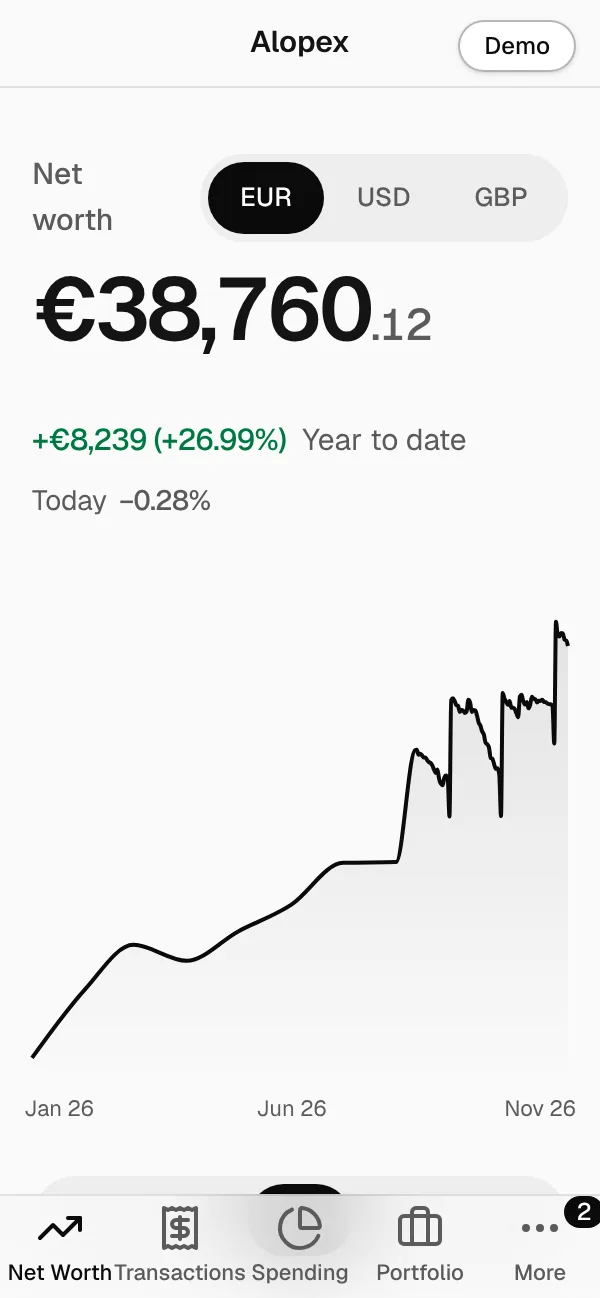
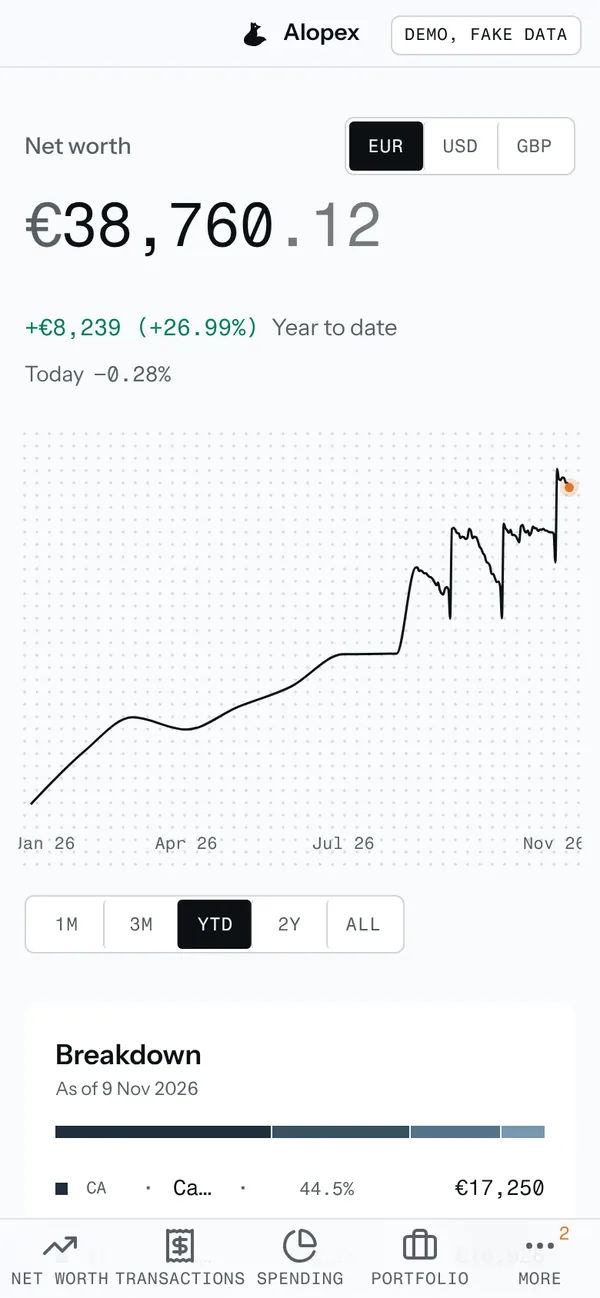
feat(site): landing v3 after open-core landings review
Hero names the category and the incumbent ("open-source Monarch alternative
for European banks"), proof strip under the CTAs, "Where your data goes"
four-hop diagram replaces the privacy cards, "Switching from Monarch, Finary
or a spreadsheet" replaces the OSS comparison table (peers move to the FAQ),
founder note before the final band. Screenshots regenerated from the Arctic
Ledger dashboard; stale head-mask overlays removed from the fox SVGs.

Claude-Session: https://claude.ai/code/session_015ob4vseKrSYbt3XPdrmNM3

diff --git a/site/index.html b/site/index.html
@@ -3,8 +3,8 @@
 <head>
 <meta charset="utf-8">
 <meta name="viewport" content="width=device-width, initial-scale=1">
-<title>Alopex: Self-Hosted Net Worth Tracker for European Banks</title>
-<meta name="description" content="Open source Finary alternative: a self-hosted net worth tracker with PSD2 sync for 2000+ European banks, stocks and crypto. MIT, data in your own Supabase.">
+<title>Alopex: Open-Source Monarch Alternative for European Banks</title>
+<meta name="description" content="The open-source Monarch alternative for European banks: net worth from 2000+ EU banks, stocks and crypto, synced read-only into your own Supabase. MIT.">
 <!-- SITE_URL: https://alopex.finance, also in robots.txt, sitemap.xml, llms.txt -->
 <link rel="canonical" href="https://alopex.finance/">
 <meta name="theme-color" content="#ffffff" media="(prefers-color-scheme: light)">
@@ -14,7 +14,7 @@
 <meta property="og:type" content="website">
 <meta property="og:locale" content="en_GB">
 <meta property="og:site_name" content="Alopex">
-<meta property="og:title" content="Alopex: a self-hosted net worth tracker for European banks">
+<meta property="og:title" content="Alopex: the open-source Monarch alternative for European banks">
 <meta property="og:description" content="Bank accounts, investments and crypto in one dashboard, synced read-only from 2000+ European banks into a database you own. MIT licensed.">
 <meta property="og:url" content="https://alopex.finance/">
 <meta property="og:image" content="https://alopex.finance/og-image.png">
@@ -22,7 +22,7 @@
 <meta property="og:image:height" content="630">
 <meta property="og:image:alt" content="Alopex: net worth, spending, subscriptions and portfolio from your own bank accounts, in your own Supabase project">
 <meta name="twitter:card" content="summary_large_image">
-<meta name="twitter:title" content="Alopex: a self-hosted net worth tracker for European banks">
+<meta name="twitter:title" content="Alopex: the open-source Monarch alternative for European banks">
 <meta name="twitter:description" content="Bank accounts, investments and crypto in one dashboard, synced read-only from 2000+ European banks into a database you own. MIT licensed.">
 <meta name="twitter:image" content="https://alopex.finance/og-image.png">
 <link rel="preconnect" href="https://fonts.googleapis.com">
@@ -56,8 +56,8 @@
     {
       "@type": "FAQPage",
       "mainEntity": [
-        {"@type": "Question", "name": "Is there an open-source alternative to Finary?", "acceptedAnswer": {"@type": "Answer", "text": "Yes. Alopex is MIT-licensed and self-hosted: European bank accounts, stocks, ETFs and crypto in one dashboard."}},
-        {"@type": "Question", "name": "How is Alopex different from Firefly III or Actual Budget?", "acceptedAnswer": {"@type": "Answer", "text": "They budget; Alopex tracks net worth and prices investments and crypto, which they do not."}},
+        {"@type": "Question", "name": "Is there an open-source alternative to Monarch Money or Finary?", "acceptedAnswer": {"@type": "Answer", "text": "Yes. Alopex is MIT-licensed and self-hosted: European bank accounts, stocks, ETFs and crypto in one dashboard, with the data in your own Supabase project."}},
+        {"@type": "Question", "name": "How is Alopex different from Firefly III, Actual Budget or Ghostfolio?", "acceptedAnswer": {"@type": "Answer", "text": "Firefly III and Actual budget; Ghostfolio tracks investments. Alopex does net worth across bank accounts, investments and crypto, with EU bank sync built in."}},
         {"@type": "Question", "name": "Is Alopex free?", "acceptedAnswer": {"@type": "Answer", "text": "Yes, MIT. The default setup runs on free tiers of GitHub, Supabase, Vercel and Enable Banking, whose limits can change."}},
         {"@type": "Question", "name": "Which banks does Alopex support, and how long does access last?", "acceptedAnswer": {"@type": "Answer", "text": "Any of the 2000+ on Enable Banking, including Revolut, Wise and Fineco. Consent lasts 180 days; you get a reminder before it ends and renew without losing history."}},
         {"@type": "Question", "name": "Do I need a server to run Alopex?", "acceptedAnswer": {"@type": "Answer", "text": "No. Sync runs on GitHub Actions and the dashboard on Vercel. Docker is an option for a home server."}},
@@ -184,13 +184,44 @@ code{font:.9em ui-monospace,SFMono-Regular,Menlo,monospace;background:var(--soft
 @media (max-width:760px){header nav a:not(.btn):not(.stars){display:none}}
 @media (max-width:480px){.ctas .btn{flex:1 1 100%}}
 @media (prefers-color-scheme:dark){.frame{box-shadow:0 0 0 1px #262626,0 24px 60px -24px rgba(0,0,0,.8)}.frame img{filter:brightness(.94)}.frame .bar i{background:#333}}
+
+.proof{display:flex;flex-wrap:wrap;justify-content:center;align-items:center;gap:10px 28px;margin:28px 0 0;padding:0;list-style:none;font-size:14px;color:var(--muted)}
+.proof li{display:flex;align-items:center;gap:8px}
+.proof li+li::before{content:"";width:5px;height:5px;border-radius:50%;background:var(--ink);opacity:.4}
+.proof img{display:block;height:20px;width:auto}
+.proof strong{color:var(--ink);font-weight:600;font-variant-numeric:tabular-nums}
+.install{display:inline-flex;align-items:center;gap:10px;margin:18px auto 0;font-size:13px;color:var(--muted)}
+.install code{font-size:13px;padding:4px 10px}
+.flow{display:grid;grid-template-columns:repeat(4,1fr);gap:0;border:1px solid var(--line);border-radius:12px;overflow:hidden;background:var(--line);gap:1px}
+.flow>div{background:var(--bg);padding:var(--s3);position:relative}
+.flow>div+div::before{content:"\2192";position:absolute;left:-9px;top:var(--s3);width:18px;height:18px;border-radius:50%;background:var(--bg);border:1px solid var(--line);font-size:11px;line-height:16px;text-align:center;color:var(--muted);z-index:1}
+.flow .who{font-size:12px;letter-spacing:.06em;text-transform:uppercase;color:var(--muted);margin:0 0 10px}
+.flow h3{font-size:1.05rem;letter-spacing:-.015em;font-weight:600;margin:0 0 6px}
+.flow p{color:var(--muted);margin:0;font-size:.92rem}
+.flow .yours{background:var(--soft)}
+.flow .yours .who{color:var(--ink)}
+@media (max-width:760px){.flow{grid-template-columns:1fr 1fr}}
+@media (max-width:480px){.flow{grid-template-columns:1fr}}
+.switch{display:grid;grid-template-columns:repeat(3,1fr);gap:1px;background:var(--line);border:1px solid var(--line);border-radius:12px;overflow:hidden}
+.switch>div{background:var(--bg);padding:var(--s3) var(--s3) 28px}
+.switch h3{font-size:1.05rem;letter-spacing:-.015em;font-weight:600;margin:0 0 10px}
+.switch p{color:var(--muted);margin:0 0 8px;font-size:.95rem}
+.switch p.vs{color:var(--ink)}
+.switch p.vs::before{content:"Alopex";display:inline-block;font-size:11px;letter-spacing:.06em;text-transform:uppercase;color:var(--muted);margin-right:8px}
+@media (max-width:760px){.switch{grid-template-columns:1fr}}
+.founder{max-width:var(--copy)}
+.founder blockquote{margin:0;padding:0 0 0 var(--s3);border-left:2px solid var(--ink);font-size:1.15rem;line-height:1.55;color:var(--ink);text-wrap:pretty}
+.founder blockquote p{margin:0 0 14px}
+.founder .sig{display:flex;align-items:center;gap:10px;font-size:14px;color:var(--muted);margin-top:var(--s3)}
+.founder .sig img{width:28px;height:28px;border-radius:50%}
+.founder .sig strong{color:var(--ink);font-weight:600}
 </style>
 </head>
 <body>
 <header><div class="wrap">
-  <a class="brand" href="/" aria-label="Alopex home"><svg viewBox="0 0 64 64" aria-hidden="true"><path fill="currentColor" fill-rule="evenodd" d="M23.0 8.3 C22.7 9.0 22.1 9.9 22.0 11.6 C21.9 13.3 22.7 16.2 22.5 18.6 C22.3 21.1 22.6 23.2 20.6 26.3 C18.6 29.4 12.7 34.6 10.7 37.2 C8.7 39.9 8.8 40.4 8.4 42.2 C8.0 44.0 8.0 46.3 8.3 47.8 C8.6 49.3 8.7 50.1 10.2 51.4 C11.7 52.7 14.1 54.5 17.2 55.5 C20.2 56.5 25.6 57.4 28.5 57.6 C31.4 57.8 32.7 57.4 34.9 56.8 C37.1 56.1 39.0 55.4 41.5 53.7 C44.0 52.0 47.8 48.0 50.0 46.7 C52.2 45.4 53.9 46.0 54.8 45.7 C55.6 45.4 55.6 45.6 55.1 44.8 C54.6 43.9 52.9 41.7 51.7 40.6 C50.5 39.5 49.2 38.9 47.7 38.4 C46.2 37.9 44.8 37.5 42.7 37.4 C40.6 37.3 34.9 37.9 34.9 37.9 C34.9 37.9 36.0 34.3 36.1 32.0 C36.2 29.7 34.5 26.2 35.5 23.9 C36.5 21.6 40.9 19.7 42.2 18.4 C43.5 17.1 43.2 16.1 43.2 16.1 C43.2 16.1 38.8 15.2 37.3 14.6 C35.8 13.9 35.1 13.3 34.2 12.2 C33.3 11.1 31.7 8.1 31.7 8.1 C31.7 8.1 30.1 10.3 28.8 10.2 C27.5 10.1 23.6 7.5 23.6 7.5 C23.6 7.5 23.3 7.6 23.0 8.3ZM30.4 16.8a1.6 1.6 0 1 0 3.2 0a1.6 1.6 0 1 0-3.2 0Z"/><path fill="var(--bg)" d="M14 34Q22 33 27 40L32 47L37 40Q42 33 50 34L36 50Q32 54 28 50Z"/><circle cx="23" cy="29" r="2.5" fill="var(--bg)"/><circle cx="41" cy="29" r="2.5" fill="var(--bg)"/><path fill="currentColor" d="M29 46H35L32 50Z"/></svg> Alopex</a>
+  <a class="brand" href="/" aria-label="Alopex home"><svg viewBox="0 0 64 64" aria-hidden="true"><path fill="currentColor" fill-rule="evenodd" d="M23.0 8.3 C22.7 9.0 22.1 9.9 22.0 11.6 C21.9 13.3 22.7 16.2 22.5 18.6 C22.3 21.1 22.6 23.2 20.6 26.3 C18.6 29.4 12.7 34.6 10.7 37.2 C8.7 39.9 8.8 40.4 8.4 42.2 C8.0 44.0 8.0 46.3 8.3 47.8 C8.6 49.3 8.7 50.1 10.2 51.4 C11.7 52.7 14.1 54.5 17.2 55.5 C20.2 56.5 25.6 57.4 28.5 57.6 C31.4 57.8 32.7 57.4 34.9 56.8 C37.1 56.1 39.0 55.4 41.5 53.7 C44.0 52.0 47.8 48.0 50.0 46.7 C52.2 45.4 53.9 46.0 54.8 45.7 C55.6 45.4 55.6 45.6 55.1 44.8 C54.6 43.9 52.9 41.7 51.7 40.6 C50.5 39.5 49.2 38.9 47.7 38.4 C46.2 37.9 44.8 37.5 42.7 37.4 C40.6 37.3 34.9 37.9 34.9 37.9 C34.9 37.9 36.0 34.3 36.1 32.0 C36.2 29.7 34.5 26.2 35.5 23.9 C36.5 21.6 40.9 19.7 42.2 18.4 C43.5 17.1 43.2 16.1 43.2 16.1 C43.2 16.1 38.8 15.2 37.3 14.6 C35.8 13.9 35.1 13.3 34.2 12.2 C33.3 11.1 31.7 8.1 31.7 8.1 C31.7 8.1 30.1 10.3 28.8 10.2 C27.5 10.1 23.6 7.5 23.6 7.5 C23.6 7.5 23.3 7.6 23.0 8.3ZM30.4 16.8a1.6 1.6 0 1 0 3.2 0a1.6 1.6 0 1 0-3.2 0Z"/></svg> Alopex</a>
   <nav>
-    <a href="#features">Features</a><a href="#how">How it works</a><a href="#privacy">Privacy</a><a href="#faq">FAQ</a>
+    <a href="#features">Features</a><a href="#switch">Compare</a><a href="#how">How it works</a><a href="#faq">FAQ</a>
     <a class="stars" href="https://github.com/marcodonghiaa/myfinances"><span>GitHub</span><img src="https://img.shields.io/github/stars/marcodonghiaa/myfinances?style=flat&amp;label=&amp;color=0a0a0a" width="48" height="20" loading="lazy" alt="GitHub stars"></a>
     <a class="btn primary sm" href="https://myfinancess-view.vercel.app/demo">Live demo</a>
   </nav>
@@ -200,49 +231,37 @@ code{font:.9em ui-monospace,SFMono-Regular,Menlo,monospace;background:var(--soft
 <div class="wrap">
 <div class="hero">
   <p class="kicker">Open source · MIT · Self-hosted</p>
-  <h1>One number for your net worth. In a database you own.</h1>
-  <p class="sub">Read-only sync from 2000+ European banks over PSD2, stocks and crypto auto-priced, everything written to your own Supabase project. Runs on free tiers.</p>
+  <h1>The open-source Monarch alternative for European banks.</h1>
+  <p class="sub">Net worth from 2000+ EU banks, stocks and crypto, synced read-only into your own Supabase project. Free, on free tiers.</p>
   <div class="ctas">
     <a class="btn primary" href="https://myfinancess-view.vercel.app/demo">Try the live demo</a>
     <a class="btn" href="#how">Self-host in 30 minutes</a>
   </div>
-  <p class="fine">The demo runs on fake data. No sign-up.</p>
-  <ul class="facts"><li>MIT licensed</li><li>Read-only PSD2 access</li><li>No Alopex server</li></ul>
+  <p class="install">Or open the repo in Codespaces and run <code>./setup.sh</code></p>
+  <ul class="proof">
+    <li><a class="stars" href="https://github.com/marcodonghiaa/myfinances" aria-label="GitHub stars"><img src="https://img.shields.io/github/stars/marcodonghiaa/myfinances?style=flat&amp;label=&amp;color=0a0a0a" width="48" height="20" loading="lazy" alt="GitHub stars"></a></li>
+    <li><strong>2000+</strong> European banks over PSD2</li>
+    <li>Read-only access</li>
+    <li>No Alopex server</li>
+  </ul>
   <div class="stage"><figure class="frame"><div class="bar"><i></i><i></i><i></i><span>alopex.finance</span></div>
     <picture><source media="(max-width:640px)" srcset="/img/mobile.webp" width="600" height="1298"><img src="/img/net-worth.webp" width="1600" height="1000" alt="Alopex net worth dashboard: one total across bank accounts, portfolio and crypto, with a chart over time" fetchpriority="high"></picture>
   </figure></div>
 </div>
 
-<section class="quote" id="what">
-  <p class="label">What the publisher sees</p>
-  <p>Nothing. <span>There is no Alopex server. Bank data goes from Enable Banking straight into your Supabase project.</span></p>
-</section>
-
 <section id="privacy">
-  <h2>Read-only, under your own accounts</h2>
-  <p class="lead">Three third parties touch your data.</p>
-  <div class="cards">
-    <div><svg viewBox="0 0 24 24" fill="none" stroke="currentColor" stroke-width="1.6" aria-hidden="true"><ellipse cx="12" cy="5.5" rx="8" ry="3"/><path d="M4 5.5v13c0 1.7 3.6 3 8 3s8-1.3 8-3v-13M4 12c0 1.7 3.6 3 8 3s8-1.3 8-3"/></svg><h3>Row Level Security on every table</h3><p>The dashboard holds only the publishable key. The service-role key stays in the sync scripts and Edge Functions.</p></div>
-    <div><svg viewBox="0 0 24 24" fill="none" stroke="currentColor" stroke-width="1.6" aria-hidden="true"><rect x="4" y="10" width="16" height="11" rx="2"/><path d="M8 10V7a4 4 0 0 1 8 0v3"/></svg><h3>Cannot move money</h3><p>PSD2 account-information access and a read-only Coinbase key. A database trigger blocks edits to bank-sourced fields.</p></div>
-    <div><svg viewBox="0 0 24 24" fill="none" stroke="currentColor" stroke-width="1.6" aria-hidden="true"><path d="M7 7h10M7 12h10M7 17h6"/><rect x="3" y="3" width="18" height="18" rx="3"/></svg><h3>Updates you merge yourself</h3><p>They arrive as pull requests on your copy. Sync logs hold counts, never names or amounts.</p></div>
+  <h2>Where your data goes</h2>
+  <p class="lead">Four hops. The last two run under your own accounts, and nothing in this line is ours.</p>
+  <div class="flow">
+    <div><p class="who">Your bank</p><h3>Balances and transactions</h3><p>Released under PSD2 account-information access. Read-only by law.</p></div>
+    <div><p class="who">Enable Banking</p><h3>Licensed relay</h3><p>Fetches from the bank and hands the data on. Keeps no copy for Alopex.</p></div>
+    <div class="yours"><p class="who">Your Supabase</p><h3>Postgres, your account</h3><p>Row Level Security on every table. The service-role key never reaches the browser.</p></div>
+    <div class="yours"><p class="who">Your Vercel</p><h3>The dashboard</h3><p>Deployed from your fork. Updates arrive as pull requests you merge.</p></div>
   </div>
   <ul class="others">
-    <li>Enable Banking relays data from your bank.</li>
-    <li>Supabase, Vercel and GitHub run under your accounts.</li>
-    <li>Google Gemini, only if you add a key, receives transaction descriptions for categorization.</li>
+    <li>Optional: Google Gemini, only if you add a key, receives transaction descriptions for categorization.</li>
+    <li>Sync logs hold counts, never names or amounts. Alopex cannot move money.</li>
   </ul>
-</section>
-
-<section id="how">
-  <h2>Set up in about 30 minutes</h2>
-  <p class="lead">In the browser, on free tiers. No computer has to stay on.</p>
-  <ol class="steps">
-    <li><strong>Create free accounts</strong><span>GitHub, Supabase, Enable Banking and Vercel. Optional Gemini key. About 15 minutes.</span></li>
-    <li><strong>Run setup in Codespaces</strong><span>Run <code>./setup.sh</code>. It creates the schema, deploys the functions and turns on the sync.</span></li>
-    <li><strong>Deploy the dashboard</strong><span>Click Deploy with Vercel, paste the three values setup printed, sign in.</span></li>
-    <li><strong>Link a bank</strong><span>From the Accounts page. Balances appear at once, transactions with the next sync.</span></li>
-  </ol>
-  <div class="after"><a class="btn" href="https://github.com/marcodonghiaa/myfinances#readme">Open the setup guide</a><p class="fine">Own hardware? <code>docker compose up</code> runs both apps.</p></div>
 </section>
 
 <section id="features">
@@ -269,6 +288,28 @@ code{font:.9em ui-monospace,SFMono-Regular,Menlo,monospace;background:var(--soft
   </div>
 </section>
 
+<section id="switch">
+  <h2>Switching from Monarch, Finary or a spreadsheet</h2>
+  <div class="switch">
+    <div><h3>Monarch Money</h3><p>Connects US and Canadian banks. Subscription. Your transactions live on their servers.</p><p class="vs">2000+ European banks over PSD2, free, in your own database.</p></div>
+    <div><h3>Finary</h3><p>European banks, hosted service, proprietary code.</p><p class="vs">Same scope, MIT licensed, self-hosted. It keeps working if we stop.</p></div>
+    <div><h3>A spreadsheet</h3><p>Typed by hand, no history, one currency.</p><p class="vs">Synced every 6 hours, daily history, EUR/USD/GBP. Import the spreadsheet as CSV.</p></div>
+  </div>
+  <p class="note">Coming from Firefly III, Actual or Ghostfolio? See the <a href="#faq">FAQ</a>. Corrections welcome on <a href="https://github.com/marcodonghiaa/myfinances/issues">GitHub</a>.</p>
+</section>
+
+<section id="how">
+  <h2>Set up in about 30 minutes</h2>
+  <p class="lead">In the browser, on free tiers. No computer has to stay on.</p>
+  <ol class="steps">
+    <li><strong>Create free accounts</strong><span>GitHub, Supabase, Enable Banking and Vercel. Optional Gemini key. About 15 minutes.</span></li>
+    <li><strong>Run setup in Codespaces</strong><span>Run <code>./setup.sh</code>. It creates the schema, deploys the functions and turns on the sync.</span></li>
+    <li><strong>Deploy the dashboard</strong><span>Click Deploy with Vercel, paste the three values setup printed, sign in.</span></li>
+    <li><strong>Link a bank</strong><span>From the Accounts page. Balances appear at once, transactions with the next sync.</span></li>
+  </ol>
+  <div class="after"><a class="btn" href="https://github.com/marcodonghiaa/myfinances#readme">Open the setup guide</a><p class="fine">Own hardware? <code>docker compose up</code> runs both apps.</p></div>
+</section>
+
 <section id="not-for" class="prose copy">
   <h2>Who it is not for</h2>
   <p><strong>You bank outside Europe.</strong> PSD2 only. No Plaid, SimpleFIN or US banks.</p>
@@ -278,37 +319,28 @@ code{font:.9em ui-monospace,SFMono-Regular,Menlo,monospace;background:var(--soft
   <p><strong>You want broker sync.</strong> You enter holdings; only Coinbase syncs balances.</p>
 </section>
 
-<section id="compare">
-  <h2>How it compares</h2>
-  <div class="tablewrap">
-  <table>
-    <thead><tr><th scope="col"></th><th scope="col">Alopex</th><th scope="col">Firefly III</th><th scope="col">Actual Budget</th><th scope="col">Ghostfolio</th><th scope="col">Finary</th></tr></thead>
-    <tbody>
-      <tr><th scope="row">Focus</th><td class="us">Net worth, spending, subscriptions</td><td>Budgeting, bookkeeping</td><td>Envelope budgeting</td><td>Investment portfolio</td><td>Net worth, investing</td></tr>
-      <tr><th scope="row">Self-hosted</th><td class="us">Yes</td><td>Yes</td><td>Yes</td><td>Yes</td><td>No</td></tr>
-      <tr><th scope="row">License</th><td class="us">MIT</td><td>AGPL-3.0</td><td>MIT</td><td>AGPL-3.0</td><td>Proprietary</td></tr>
-      <tr><th scope="row">EU bank sync</th><td class="us">Built in, PSD2 via Enable Banking</td><td>Via Data Importer</td><td>Enable Banking, GoCardless, SimpleFIN</td><td>No</td><td>Built in</td></tr>
-      <tr><th scope="row">Investments and crypto</th><td class="us">Yes, auto-priced</td><td>No</td><td>No</td><td>Yes</td><td>Yes</td></tr>
-    </tbody>
-  </table>
-  </div>
-  <p class="note">Corrections welcome on <a href="https://github.com/marcodonghiaa/myfinances/issues">GitHub</a>.</p>
-</section>
-
 <section id="faq" class="copy">
   <h2>Frequently asked questions</h2>
-  <details><summary>Is there an open-source alternative to Finary?</summary><p>Yes. Alopex is MIT-licensed and self-hosted: European bank accounts, stocks, ETFs and crypto in one dashboard.</p></details>
-  <details><summary>How is Alopex different from Firefly III or Actual Budget?</summary><p>They budget; Alopex tracks net worth and prices investments and crypto, which they do not.</p></details>
+  <details><summary>Is there an open-source alternative to Monarch Money or Finary?</summary><p>Yes. Alopex is MIT-licensed and self-hosted: European bank accounts, stocks, ETFs and crypto in one dashboard, with the data in your own Supabase project.</p></details>
+  <details><summary>How is Alopex different from Firefly III, Actual Budget or Ghostfolio?</summary><p>Firefly III and Actual budget; Ghostfolio tracks investments. Alopex does net worth across bank accounts, investments and crypto, with EU bank sync built in.</p></details>
   <details><summary>Is Alopex free?</summary><p>Yes, MIT. The default setup runs on free tiers of GitHub, Supabase, Vercel and Enable Banking, whose limits can change.</p></details>
   <details><summary>Which banks does Alopex support, and how long does access last?</summary><p>Any of the 2000+ on Enable Banking, including Revolut, Wise and Fineco. Consent lasts 180 days; you get a reminder before it ends and renew without losing history.</p></details>
   <details><summary>Do I need a server to run Alopex?</summary><p>No. Sync runs on GitHub Actions and the dashboard on Vercel. Docker is an option for a home server.</p></details>
   <details><summary>Can Alopex move money or make payments?</summary><p>No. PSD2 account-information access and the Coinbase key are both read-only.</p></details>
 </section>
 
+<section class="founder">
+  <p class="label">From the maker</p>
+  <blockquote>
+    <p>I built Alopex because every net worth app I tried either could not see my Italian bank or wanted my transactions on its servers. This one runs on my own accounts, and the code is MIT so it keeps working if I stop.</p>
+  </blockquote>
+  <p class="sig"><img src="/img/marco.webp" width="28" height="28" loading="lazy" alt=""><span><strong>Marco D'Onghia</strong>, <a href="https://marcodonghiaa.com">marcodonghiaa.com</a></span></p>
+</section>
+
 <section class="final">
   <div class="band">
-    <svg viewBox="0 0 64 64" aria-hidden="true"><path fill="currentColor" fill-rule="evenodd" d="M23.0 8.3 C22.7 9.0 22.1 9.9 22.0 11.6 C21.9 13.3 22.7 16.2 22.5 18.6 C22.3 21.1 22.6 23.2 20.6 26.3 C18.6 29.4 12.7 34.6 10.7 37.2 C8.7 39.9 8.8 40.4 8.4 42.2 C8.0 44.0 8.0 46.3 8.3 47.8 C8.6 49.3 8.7 50.1 10.2 51.4 C11.7 52.7 14.1 54.5 17.2 55.5 C20.2 56.5 25.6 57.4 28.5 57.6 C31.4 57.8 32.7 57.4 34.9 56.8 C37.1 56.1 39.0 55.4 41.5 53.7 C44.0 52.0 47.8 48.0 50.0 46.7 C52.2 45.4 53.9 46.0 54.8 45.7 C55.6 45.4 55.6 45.6 55.1 44.8 C54.6 43.9 52.9 41.7 51.7 40.6 C50.5 39.5 49.2 38.9 47.7 38.4 C46.2 37.9 44.8 37.5 42.7 37.4 C40.6 37.3 34.9 37.9 34.9 37.9 C34.9 37.9 36.0 34.3 36.1 32.0 C36.2 29.7 34.5 26.2 35.5 23.9 C36.5 21.6 40.9 19.7 42.2 18.4 C43.5 17.1 43.2 16.1 43.2 16.1 C43.2 16.1 38.8 15.2 37.3 14.6 C35.8 13.9 35.1 13.3 34.2 12.2 C33.3 11.1 31.7 8.1 31.7 8.1 C31.7 8.1 30.1 10.3 28.8 10.2 C27.5 10.1 23.6 7.5 23.6 7.5 C23.6 7.5 23.3 7.6 23.0 8.3ZM30.4 16.8a1.6 1.6 0 1 0 3.2 0a1.6 1.6 0 1 0-3.2 0Z"/><path fill="var(--bg)" d="M14 34Q22 33 27 40L32 47L37 40Q42 33 50 34L36 50Q32 54 28 50Z"/><circle cx="23" cy="29" r="2.5" fill="var(--bg)"/><circle cx="41" cy="29" r="2.5" fill="var(--bg)"/><path fill="currentColor" d="M29 46H35L32 50Z"/></svg>
-    <h2>One number, in a database you own.</h2>
+    <svg viewBox="0 0 64 64" aria-hidden="true"><path fill="currentColor" fill-rule="evenodd" d="M23.0 8.3 C22.7 9.0 22.1 9.9 22.0 11.6 C21.9 13.3 22.7 16.2 22.5 18.6 C22.3 21.1 22.6 23.2 20.6 26.3 C18.6 29.4 12.7 34.6 10.7 37.2 C8.7 39.9 8.8 40.4 8.4 42.2 C8.0 44.0 8.0 46.3 8.3 47.8 C8.6 49.3 8.7 50.1 10.2 51.4 C11.7 52.7 14.1 54.5 17.2 55.5 C20.2 56.5 25.6 57.4 28.5 57.6 C31.4 57.8 32.7 57.4 34.9 56.8 C37.1 56.1 39.0 55.4 41.5 53.7 C44.0 52.0 47.8 48.0 50.0 46.7 C52.2 45.4 53.9 46.0 54.8 45.7 C55.6 45.4 55.6 45.6 55.1 44.8 C54.6 43.9 52.9 41.7 51.7 40.6 C50.5 39.5 49.2 38.9 47.7 38.4 C46.2 37.9 44.8 37.5 42.7 37.4 C40.6 37.3 34.9 37.9 34.9 37.9 C34.9 37.9 36.0 34.3 36.1 32.0 C36.2 29.7 34.5 26.2 35.5 23.9 C36.5 21.6 40.9 19.7 42.2 18.4 C43.5 17.1 43.2 16.1 43.2 16.1 C43.2 16.1 38.8 15.2 37.3 14.6 C35.8 13.9 35.1 13.3 34.2 12.2 C33.3 11.1 31.7 8.1 31.7 8.1 C31.7 8.1 30.1 10.3 28.8 10.2 C27.5 10.1 23.6 7.5 23.6 7.5 C23.6 7.5 23.3 7.6 23.0 8.3ZM30.4 16.8a1.6 1.6 0 1 0 3.2 0a1.6 1.6 0 1 0-3.2 0Z"/></svg>
+    <h2>Your net worth, in a database you own.</h2>
     <p class="lead">Try it on fake data, then set up your own.</p>
     <div class="ctas">
       <a class="btn primary" href="https://myfinancess-view.vercel.app/demo">Try the live demo</a>
@@ -322,7 +354,7 @@ code{font:.9em ui-monospace,SFMono-Regular,Menlo,monospace;background:var(--soft
 
 <footer><div class="wrap">
   <div class="cols">
-    <a class="brand" href="/" aria-label="Alopex home"><svg viewBox="0 0 64 64" aria-hidden="true"><path fill="currentColor" fill-rule="evenodd" d="M23.0 8.3 C22.7 9.0 22.1 9.9 22.0 11.6 C21.9 13.3 22.7 16.2 22.5 18.6 C22.3 21.1 22.6 23.2 20.6 26.3 C18.6 29.4 12.7 34.6 10.7 37.2 C8.7 39.9 8.8 40.4 8.4 42.2 C8.0 44.0 8.0 46.3 8.3 47.8 C8.6 49.3 8.7 50.1 10.2 51.4 C11.7 52.7 14.1 54.5 17.2 55.5 C20.2 56.5 25.6 57.4 28.5 57.6 C31.4 57.8 32.7 57.4 34.9 56.8 C37.1 56.1 39.0 55.4 41.5 53.7 C44.0 52.0 47.8 48.0 50.0 46.7 C52.2 45.4 53.9 46.0 54.8 45.7 C55.6 45.4 55.6 45.6 55.1 44.8 C54.6 43.9 52.9 41.7 51.7 40.6 C50.5 39.5 49.2 38.9 47.7 38.4 C46.2 37.9 44.8 37.5 42.7 37.4 C40.6 37.3 34.9 37.9 34.9 37.9 C34.9 37.9 36.0 34.3 36.1 32.0 C36.2 29.7 34.5 26.2 35.5 23.9 C36.5 21.6 40.9 19.7 42.2 18.4 C43.5 17.1 43.2 16.1 43.2 16.1 C43.2 16.1 38.8 15.2 37.3 14.6 C35.8 13.9 35.1 13.3 34.2 12.2 C33.3 11.1 31.7 8.1 31.7 8.1 C31.7 8.1 30.1 10.3 28.8 10.2 C27.5 10.1 23.6 7.5 23.6 7.5 C23.6 7.5 23.3 7.6 23.0 8.3ZM30.4 16.8a1.6 1.6 0 1 0 3.2 0a1.6 1.6 0 1 0-3.2 0Z"/><path fill="var(--bg)" d="M14 34Q22 33 27 40L32 47L37 40Q42 33 50 34L36 50Q32 54 28 50Z"/><circle cx="23" cy="29" r="2.5" fill="var(--bg)"/><circle cx="41" cy="29" r="2.5" fill="var(--bg)"/><path fill="currentColor" d="M29 46H35L32 50Z"/></svg> Alopex</a>
+    <a class="brand" href="/" aria-label="Alopex home"><svg viewBox="0 0 64 64" aria-hidden="true"><path fill="currentColor" fill-rule="evenodd" d="M23.0 8.3 C22.7 9.0 22.1 9.9 22.0 11.6 C21.9 13.3 22.7 16.2 22.5 18.6 C22.3 21.1 22.6 23.2 20.6 26.3 C18.6 29.4 12.7 34.6 10.7 37.2 C8.7 39.9 8.8 40.4 8.4 42.2 C8.0 44.0 8.0 46.3 8.3 47.8 C8.6 49.3 8.7 50.1 10.2 51.4 C11.7 52.7 14.1 54.5 17.2 55.5 C20.2 56.5 25.6 57.4 28.5 57.6 C31.4 57.8 32.7 57.4 34.9 56.8 C37.1 56.1 39.0 55.4 41.5 53.7 C44.0 52.0 47.8 48.0 50.0 46.7 C52.2 45.4 53.9 46.0 54.8 45.7 C55.6 45.4 55.6 45.6 55.1 44.8 C54.6 43.9 52.9 41.7 51.7 40.6 C50.5 39.5 49.2 38.9 47.7 38.4 C46.2 37.9 44.8 37.5 42.7 37.4 C40.6 37.3 34.9 37.9 34.9 37.9 C34.9 37.9 36.0 34.3 36.1 32.0 C36.2 29.7 34.5 26.2 35.5 23.9 C36.5 21.6 40.9 19.7 42.2 18.4 C43.5 17.1 43.2 16.1 43.2 16.1 C43.2 16.1 38.8 15.2 37.3 14.6 C35.8 13.9 35.1 13.3 34.2 12.2 C33.3 11.1 31.7 8.1 31.7 8.1 C31.7 8.1 30.1 10.3 28.8 10.2 C27.5 10.1 23.6 7.5 23.6 7.5 C23.6 7.5 23.3 7.6 23.0 8.3ZM30.4 16.8a1.6 1.6 0 1 0 3.2 0a1.6 1.6 0 1 0-3.2 0Z"/></svg> Alopex</a>
     <nav><a href="https://github.com/marcodonghiaa/myfinances">Backend repo</a><a href="https://github.com/marcodonghiaa/my-wealth-view">Dashboard repo</a><a href="https://github.com/marcodonghiaa/myfinances/blob/main/LICENSE">MIT license</a><a href="/llms.txt">llms.txt</a></nav>
   </div>
   <p class="legal">Alopex is a tracking tool, not financial, investment or tax advice. Figures come from your banks and third-party price feeds and may be delayed or wrong.</p>
